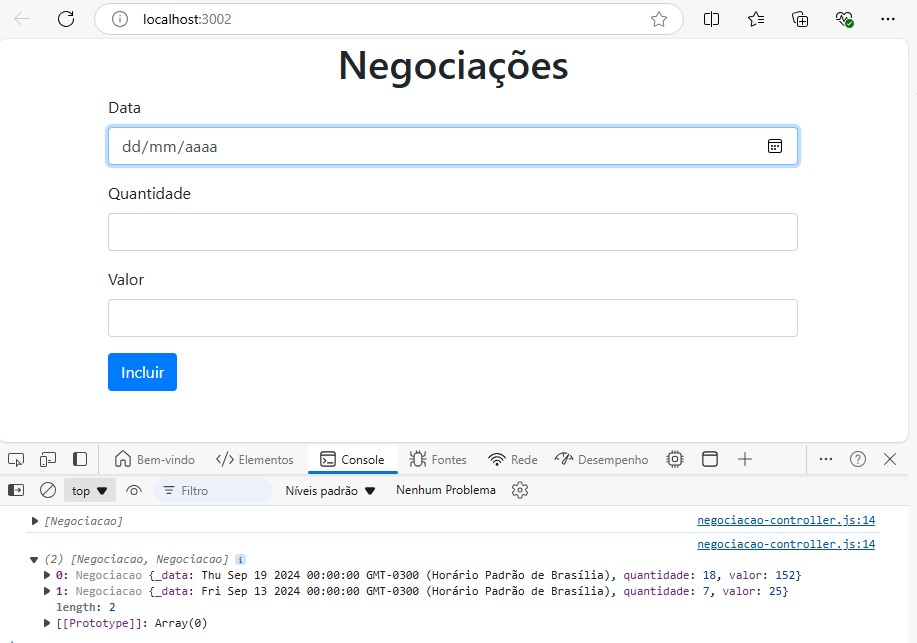
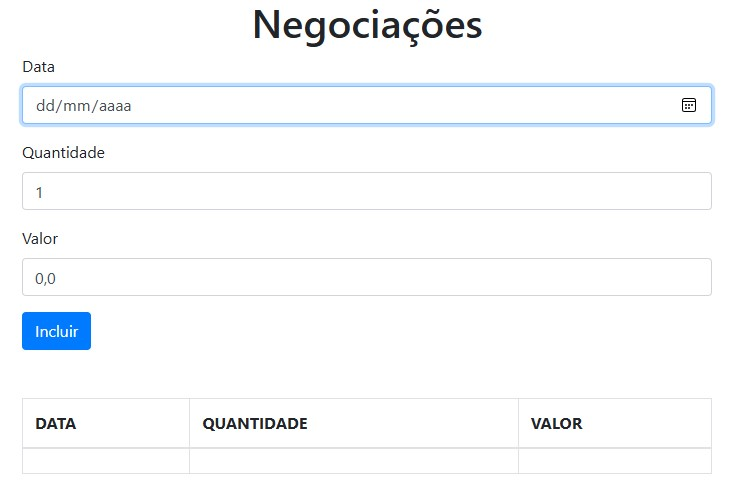
Template NegociacoesView criado

diff --git a/dist/js/views/negociacoes-view.js b/dist/js/views/negociacoes-view.js
@@ -1,0 +1,34 @@
+export class NegociacoesView {
+    constructor(selector) {
+        //Obtendo o elemento do DOM...
+        this.elemento = document.querySelector(selector);
+    }
+    //Declarando o template da view: Tem a finalidade de retornar uma string HTML no futuro com os dados necesários
+    template(model) {
+        return `
+        <table class="table table-hover table-bordered">
+            <thead>
+                <tr>
+                    <th>DATA</th>
+                    <th>QUANTIDADE</th>
+                    <th>VALOR</th>
+                </tr>
+            </thead>
+            <tbody>
+                ${model.listaDeNegociacoes().map(negociacao => {
+            return `
+                        <tr>
+                            <td></td>
+                            <td></td>
+                            <td></td>
+                    `;
+        })}
+            </tbody>
+        </table>
+        `;
+    }
+    //Utilizado para renderizar o template num elemento que foi capturado através do construtor
+    update(model) {
+        this.elemento.innerHTML = this.template(model);
+    }
+}

diff --git a/app/views/negociacoes-view.ts b/app/views/negociacoes-view.ts
@@ -1,0 +1,31 @@
+export class NegociacoesView{
+
+    private elemento: HTMLElement;
+
+    constructor(selector: string){
+        //Obtendo o elemento do DOM...
+        this.elemento = document.querySelector(selector);
+    }
+
+    //Declarando o template da view: Tem a finalidade de retornar uma string HTML no futuro com os dados necesários
+    template(): string{
+        return `
+        <table class="table table-hover table-bordered">
+            <thead>
+                <tr>
+                    <th>DATA</th>
+                    <th>QUANTIDADE</th>
+                    <th>VALOR</th>
+                </tr>
+            </thead>
+            <tbody>                
+            </tbody>
+        </table>
+        `;
+    }
+
+    //Utilizado para renderizar o template num elemento que foi capturado através do construtor
+    update(): void{
+        this.elemento.innerHTML = this.template();
+    }
+}

diff --git a/app/controllers/negociacao-controller.ts b/app/controllers/negociacao-controller.ts
@@ -1,16 +1,19 @@
 import { Negociacao } from "../models/negociacao.js";
 import { Negociacoes } from "../models/negociacoes.js";
+import { NegociacoesView } from "../views/negociacoes-view.js";
 
 export class NegociacaoController{
     private inputData: HTMLInputElement;
     private inputQuantidade: HTMLInputElement;
     private inputValor: HTMLInputElement;
     private negociacoes = new Negociacoes();
+    private negociacoesView = new NegociacoesView('#negociacoesView');
 
     constructor(){
         this.inputData = document.querySelector('#data');
         this.inputQuantidade = document.querySelector('#quantidade');
         this.inputValor = document.querySelector('#valor');
+        this.negociacoesView.update();
     }
 
     adiciona(): void{

diff --git a/dist/js/controllers/negociacao-controller.js b/dist/js/controllers/negociacao-controller.js
@@ -1,11 +1,14 @@
 import { Negociacao } from "../models/negociacao.js";
 import { Negociacoes } from "../models/negociacoes.js";
+import { NegociacoesView } from "../views/negociacoes-view.js";
 export class NegociacaoController {
     constructor() {
         this.negociacoes = new Negociacoes();
+        this.negociacoesView = new NegociacoesView('#negociacoesView');
         this.inputData = document.querySelector('#data');
         this.inputQuantidade = document.querySelector('#quantidade');
         this.inputValor = document.querySelector('#valor');
+        this.negociacoesView.update();
     }
     adiciona() {
         const negociacao = this.criaNegociacao();

diff --git a/dist/index.html b/dist/index.html
@@ -34,6 +34,8 @@
     </form>
     <br>
     <br>
+    <div id="negociacoesView"></div>
+    
     <script type="module" src="js/app.js"></script>
 </body>
 </html>
